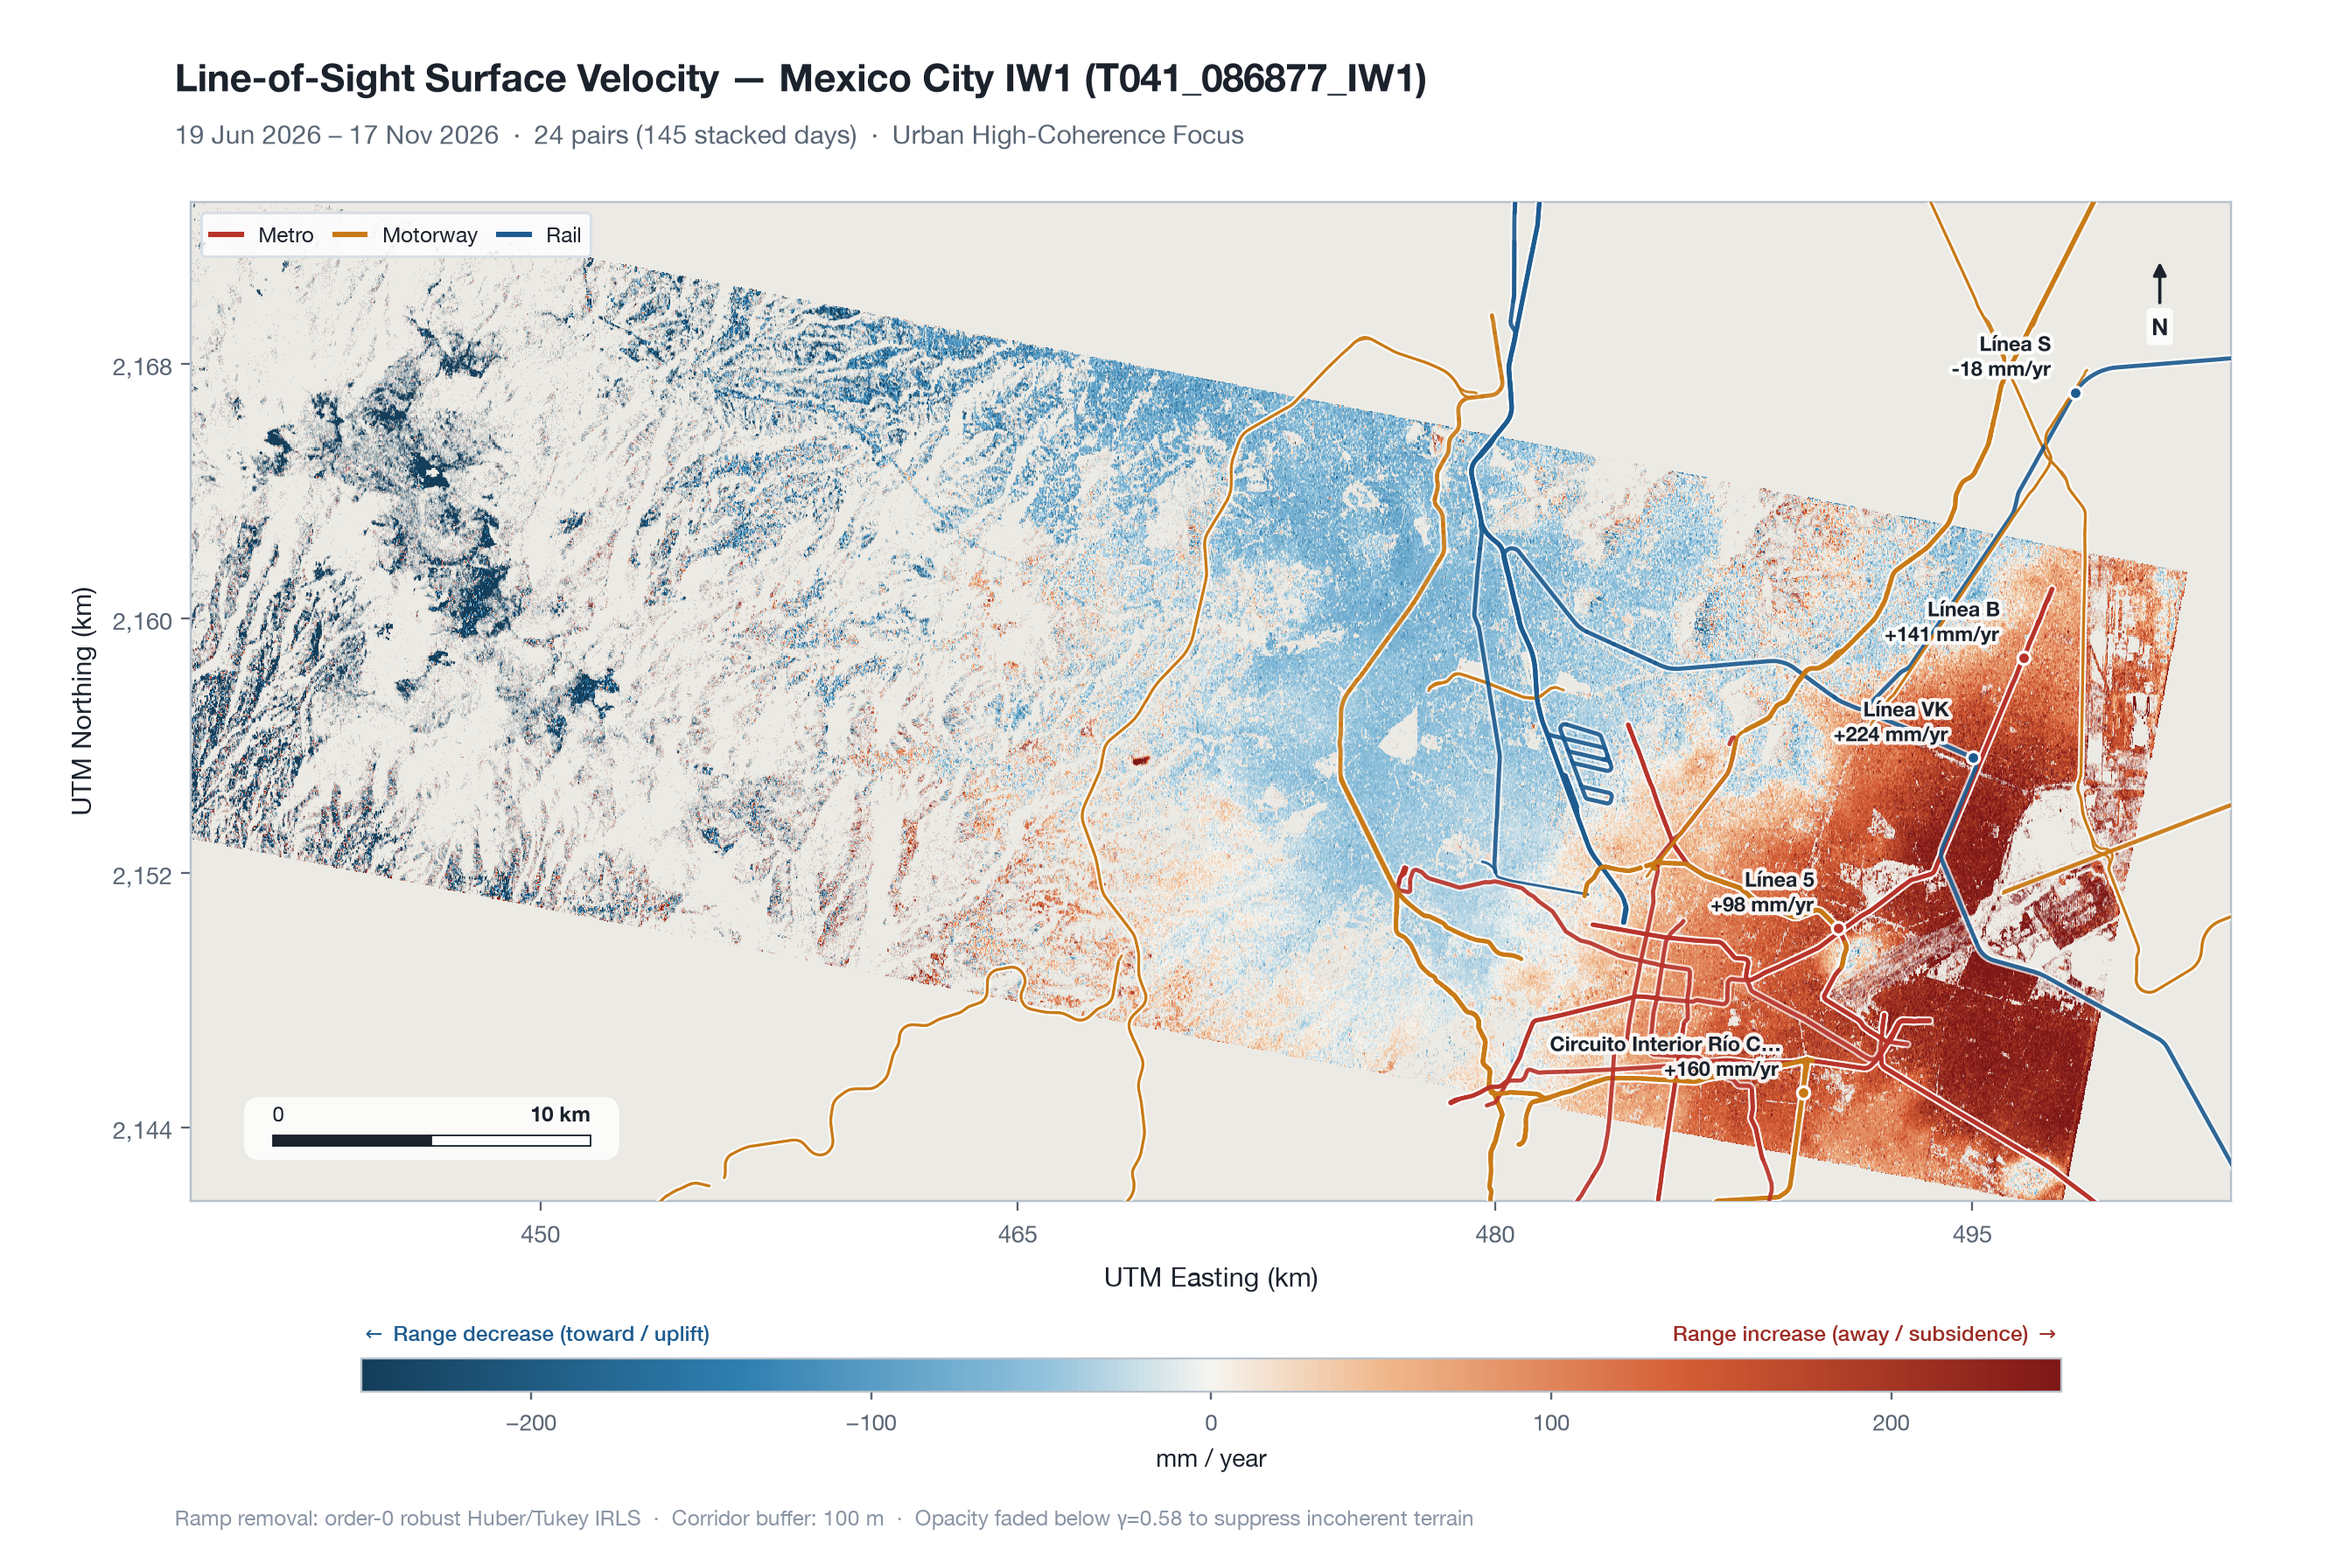
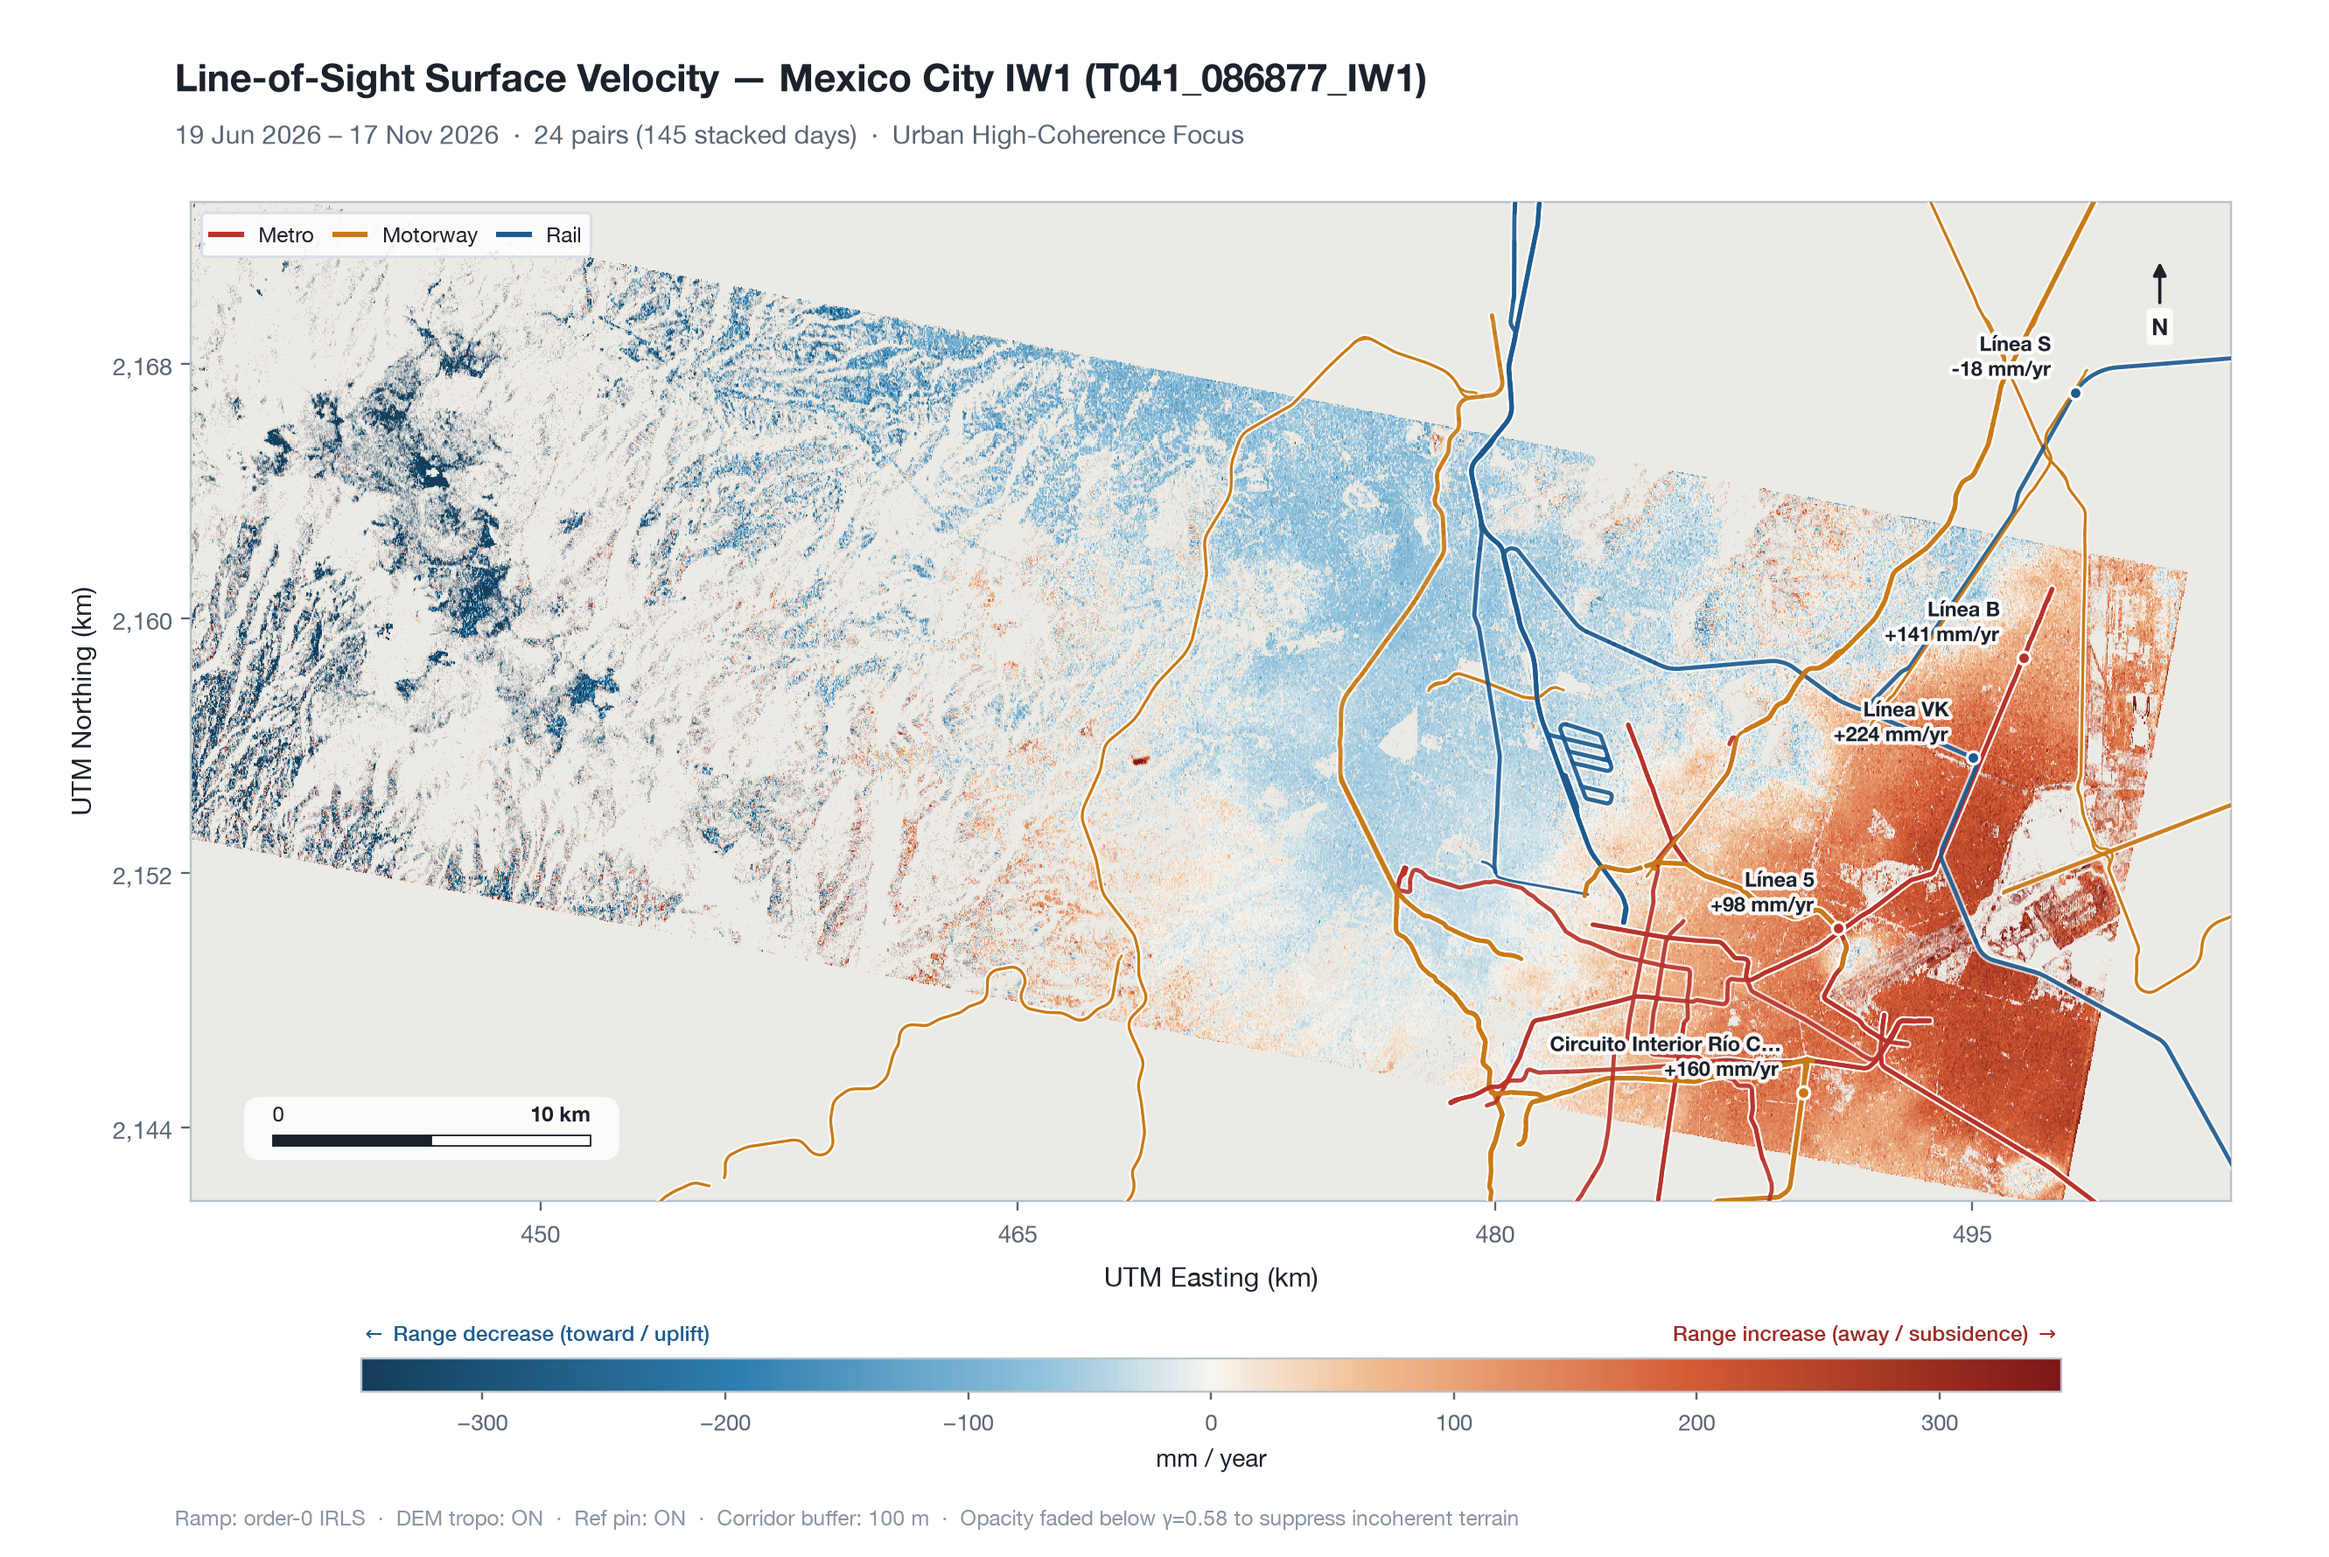
General update

diff --git a/scripts/validate_gnss.py b/scripts/validate_gnss.py
@@ -1104,7 +1104,22 @@ def validate_stack_against_gnss(
         d_end_w = datetime.strptime(ledger["pair_ids"][-1].split("_")[1], "%Y-%m-%d").date()
         window_dates = (d_start_w, d_end_w)
 
-    orbit = load_orbit_from_opera_h5(slc_h5) if (slc_h5 is not None and slc_h5.is_file()) else None
+    resolved_slc_h5: Path | None = None
+    if slc_h5 is not None:
+        if slc_h5.is_file():
+            resolved_slc_h5 = slc_h5
+        elif slc_h5.is_dir():
+            cands = sorted(slc_h5.glob("*.h5"))
+            if cands:
+                resolved_slc_h5 = cands[-1]
+    else:
+        auto_raw_dir = stack_dir.parent.parent / "raw" / stack_dir.name
+        if auto_raw_dir.is_dir():
+            cands = sorted(auto_raw_dir.glob("*.h5"))
+            if cands:
+                resolved_slc_h5 = cands[-1]
+
+    orbit = load_orbit_from_opera_h5(resolved_slc_h5) if (resolved_slc_h5 is not None and resolved_slc_h5.is_file()) else None
     if gnss_csv is not None:
         stations = load_stations_from_csv(gnss_csv)
     else:
@@ -1315,7 +1330,7 @@ def build_arg_parser() -> argparse.ArgumentParser:
     p.add_argument("--dem", type=Path, default=None, help="Optional aligned DEM GeoTIFF used during time-series overlay")
     p.add_argument("--gnss-cache-dir", type=Path, default=Path("insar_work/gnss/unr"), help="Directory with UNR DataHoldings.txt, midas.NA.txt, *.NA.tenv3")
     p.add_argument("--gnss-csv", type=Path, default=None, help="Optional local GNSS station CSV instead of UNR cache")
-    p.add_argument("--slc-h5", type=Path, default=None, help="OPERA CSLC-S1 .h5 file for exact zero-Doppler orbit LOS vector")
+    p.add_argument("--slc-h5", type=Path, default=None, help="OPERA CSLC-S1 .h5 file or raw directory containing .h5 granules for exact zero-Doppler orbit LOS vector")
     p.add_argument("--incidence-deg", type=float, default=34.0, help="Fallback radar incidence angle (deg) if --slc-h5 omitted")
     p.add_argument("--heading-deg", type=float, default=-169.0, help="Fallback satellite heading (deg CW from N) if --slc-h5 omitted")
     p.add_argument("--sample-radius-m", type=float, default=200.0, help="Spatial median radius around each GNSS station (m)")

diff --git a/scripts/plots/plot_raster_map.py b/scripts/plots/plot_raster_map.py
@@ -497,8 +497,16 @@ def render_raster_map(
 
     fade_note = f"Opacity faded below γ={fade_high:.2f} to suppress incoherent terrain" if (coh_fade and spec["coh_fade"]) else "Full-opacity raster display"
     buf_m = summary.get("corridors", {}).get("buffer_m", 100.0)
-    ramp_ord = summary.get("ramp_removal", {}).get("order", 1)
-    footer_note = f"Ramp removal: order-{ramp_ord} robust Huber/Tukey IRLS  ·  Corridor buffer: {buf_m:.0f} m  ·  {fade_note}"
+    ramp_cfg = summary.get("ramp_removal", {})
+    ramp_ord = ramp_cfg.get("order", 1)
+    extras: list[str] = [f"Ramp: order-{ramp_ord} IRLS"]
+    if ramp_cfg.get("dem_applied"):
+        extras.append("DEM tropo: ON")
+    if summary.get("reference_region", {}).get("applied"):
+        extras.append("Ref pin: ON")
+    extras.append(f"Corridor buffer: {buf_m:.0f} m")
+    extras.append(fade_note)
+    footer_note = "  ·  ".join(extras)
     footer_fs = min(8.0, max(6.6, avail_w_in * 72.0 / max(len(footer_note) * 0.49, 1.0)))
     add_footer(
         fig,

diff --git a/src/insar_stack_cpu.cpp b/src/insar_stack_cpu.cpp
@@ -2063,8 +2063,9 @@ std::string classify_corridor_risk(
     if (valid_pixels <= 0 || !std::isfinite(p95_abs_vel)) {
         return "no_coverage";
     }
+    const int min_crit_alerts = (valid_pixels >= 100) ? 3 : 1;
     const bool meets_critical =
-        alert_pixel_count > 0 &&
+        alert_pixel_count >= min_crit_alerts &&
         (p95_abs_vel >= 2.0 * vel_alert_mm_yr || alert_pixel_count >= 10 || std::abs(mean_vel) >= vel_alert_mm_yr);
     if (meets_critical) {
         if (stack_mature) {

diff --git a/README.md b/README.md
@@ -99,7 +99,7 @@ python3 scripts/validate_gnss.py \
   --stack-dir insar_work/stacks/mexico_city_iw1 \
   --products-dir insar_work/products/mexico_city_iw1 \
   --dem insar_work/dem/mexico_city_iw1_cop30.tif \
-  --slc-h5 insar_work/raw/mexico_city_iw1/<opera_granule>.h5 \
+  --slc-h5 insar_work/raw/mexico_city_iw1 \
   --out-json data/validation/mexico_city_gnss_validation.json \
   --plot-out docs/figures/mexico_city_gnss_validation.png
 
